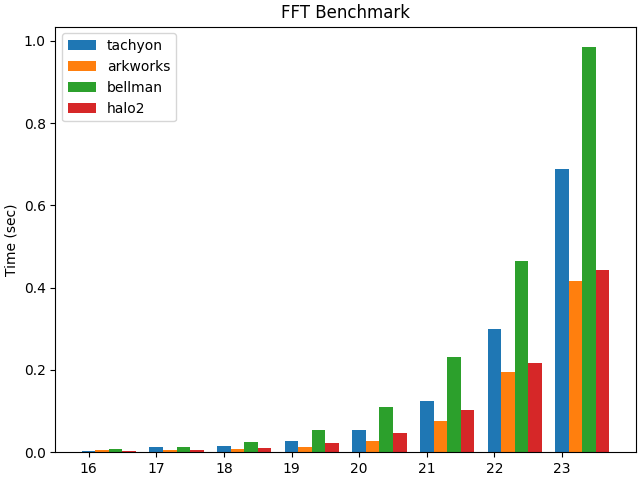
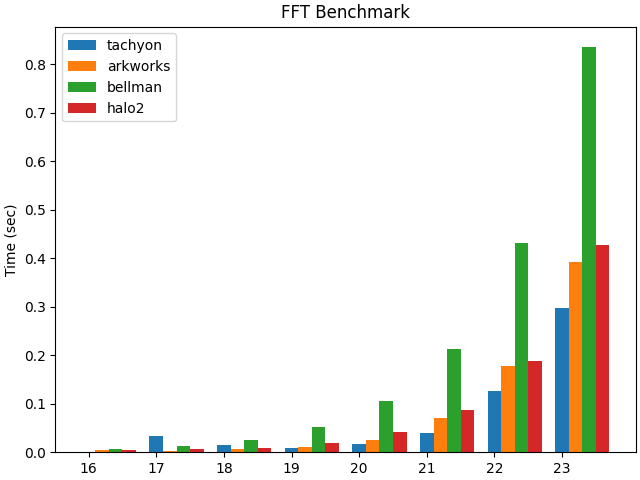
perf(math): parallelize `SwapElements()`

diff --git a/tachyon/math/polynomials/univariate/univariate_evaluation_domain.h b/tachyon/math/polynomials/univariate/univariate_evaluation_domain.h
@@ -464,7 +464,7 @@ class UnivariateEvaluationDomain : public EvaluationDomain<F, MaxDegree> {
   template <typename PolyOrEvals>
   constexpr static void SwapElements(PolyOrEvals& poly_or_evals, size_t size,
                                      uint32_t log_len) {
-    for (size_t idx = 1; idx < size; ++idx) {
+    OPENMP_PARALLEL_FOR(size_t idx = 1; idx < size; ++idx) {
       size_t ridx = base::bits::BitRev(idx) >> (sizeof(size_t) * 8 - log_len);
       if (idx < ridx) {
         std::swap(poly_or_evals.at(idx), poly_or_evals.at(ridx));

diff --git a/benchmark/fft/README.md b/benchmark/fft/README.md
@@ -15,16 +15,16 @@ CPU Caches:
 bazel run --config halo2 -c opt --//:has_openmp --//:has_rtti --//:has_matplotlib //benchmark/fft:fft_benchmark -- -k 16 -k 17 -k 18 -k 19 -k 20 -k 21 -k 22 -k 23 --vendor arkworks --vendor bellman --vendor halo2 --check_results
 ```
 
-| Exponent | Tachyon  | Arkworks     | Bellman  | Halo2        |
-| :------: | -------- | ------------ | -------- | ------------ |
-|    16    | 0.00211  | 0.005267     | 0.006479 | **0.003764** |
-|    17    | 0.012948 | **0.00457**  | 0.01275  | 0.005007     |
-|    18    | 0.01599  | **0.007549** | 0.025162 | 0.009437     |
-|    19    | 0.027597 | **0.012709** | 0.053993 | 0.021365     |
-|    20    | 0.053458 | **0.027794** | 0.109091 | 0.046986     |
-|    21    | 0.125161 | **0.07487**  | 0.230635 | 0.101493     |
-|    22    | 0.300036 | **0.195025** | 0.464866 | 0.21763      |
-|    23    | 0.687611 | **0.417051** | 0.985956 | 0.441969     |
+| Exponent | Tachyon      | Arkworks     | Bellman  | Halo2    |
+| :------: | ------------ | ------------ | -------- | -------- |
+|    16    | **0.000958** | 0.004086     | 0.007342 | 0.003784 |
+|    17    | 0.032529     | **0.003283** | 0.012624 | 0.005433 |
+|    18    | 0.014067     | **0.005768** | 0.025811 | 0.009372 |
+|    19    | **0.008459** | 0.011465     | 0.05208  | 0.019333 |
+|    20    | **0.016166** | 0.024533     | 0.106217 | 0.042381 |
+|    21    | **0.039447** | 0.069444     | 0.212414 | 0.087621 |
+|    22    | **0.125954** | 0.177245     | 0.431237 | 0.188843 |
+|    23    | **0.297259** | 0.391987     | 0.835686 | 0.427426 |
 
 ![image](/benchmark/fft/FFT%20Benchmark.png)
 
@@ -34,15 +34,15 @@ bazel run --config halo2 -c opt --//:has_openmp --//:has_rtti --//:has_matplotli
 bazel run -c opt --config halo2 --//:has_openmp --//:has_rtti --//:has_matplotlib //benchmark/fft:fft_benchmark -- -k 16 -k 17 -k 18 -k 19 -k 20 -k 21 -k 22 -k 23 --run_ifft
 ```
 
-| Exponent | Tachyon      | Arkworks     | Bellman  | Halo2    |
-| :------: | ------------ | ------------ | -------- | -------- |
-|    16    | **0.002577** | 0.005436     | 0.007644 | 0.003944 |
-|    17    | 0.01929      | **0.005533** | 0.013494 | 0.005947 |
-|    18    | 0.010847     | **0.009226** | 0.026845 | 0.011326 |
-|    19    | 0.022843     | **0.018677** | 0.054128 | 0.022901 |
-|    20    | 0.047196     | **0.038015** | 0.111437 | 0.048271 |
-|    21    | 0.125933     | **0.084934** | 0.232147 | 0.10333  |
-|    22    | 0.323088     | **0.20301**  | 0.469865 | 0.220576 |
-|    23    | 0.637929     | **0.446485** | 0.967357 | 0.455753 |
+| Exponent | Tachyon      | Arkworks     | Bellman  | Halo2       |
+| :------: | ------------ | ------------ | -------- | ----------- |
+|    16    | 0.003078     | 0.004531     | 0.007794 | **0.00297** |
+|    17    | 0.011666     | **0.005005** | 0.012804 | 0.005309    |
+|    18    | **0.005614** | 0.009204     | 0.025717 | 0.009741    |
+|    19    | **0.007625** | 0.015332     | 0.050253 | 0.018729    |
+|    20    | **0.016751** | 0.030142     | 0.111549 | 0.041873    |
+|    21    | **0.039565** | 0.0715       | 0.222403 | 0.098125    |
+|    22    | **0.140152** | 0.181124     | 0.415709 | 0.188011    |
+|    23    | **0.317353** | 0.400472     | 0.845031 | 0.407396    |
 
 ![image](/benchmark/fft/IFFT%20Benchmark.png)

diff --git a/vendors/circom/benchmark/README.md b/vendors/circom/benchmark/README.md
@@ -32,26 +32,26 @@ bazel run --@kroma_network_tachyon//:has_openmp -c opt //benchmark:circom_benchm
 ## Result
 
 ```
-[0]: 0.051697 s
-[1]: 0.046485 s
-[2]: 0.046371 s
-[3]: 0.046311 s
-[4]: 0.059727 s
-[5]: 0.046551 s
-[6]: 0.046426 s
-[7]: 0.04638 s
-[8]: 0.046409 s
-[9]: 0.046471 s
-tachyon(avg): 0.048282 s
-[0]: 0.32005 s
-[1]: 0.50119 s
-[2]: 0.252181 s
-[3]: 0.6587 s
-[4]: 0.747932 s
-[5]: 0.743909 s
-[6]: 0.663381 s
-[7]: 0.432438 s
-[8]: 0.420855 s
-[9]: 0.698306 s
-rapidsnark(avg): 0.543894 s
+[0]: 0.044026 s
+[1]: 0.039156 s
+[2]: 0.038875 s
+[3]: 0.038884 s
+[4]: 0.038806 s
+[5]: 0.038947 s
+[6]: 0.038836 s
+[7]: 0.038895 s
+[8]: 0.038878 s
+[9]: 0.038811 s
+tachyon(avg): 0.039411 s
+[0]: 0.530905 s
+[1]: 0.75682 s
+[2]: 0.163237 s
+[3]: 0.77573 s
+[4]: 0.530742 s
+[5]: 0.512661 s
+[6]: 0.22959 s
+[7]: 0.542708 s
+[8]: 0.72599 s
+[9]: 0.490333 s
+rapidsnark(avg): 0.525871 s
 ```
